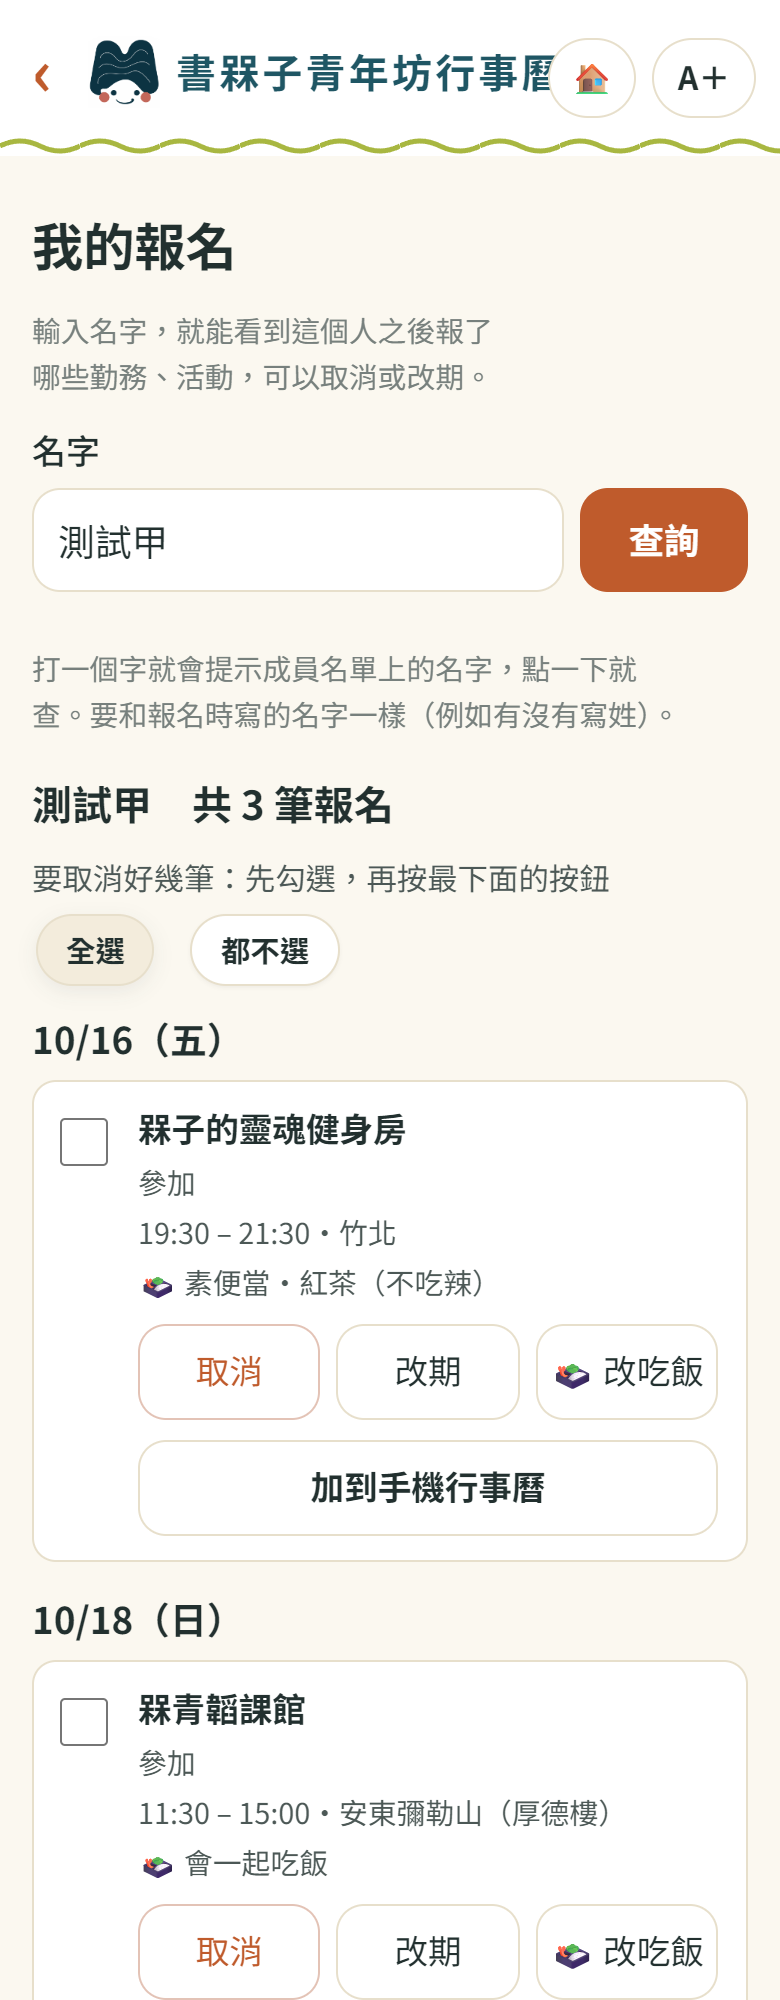
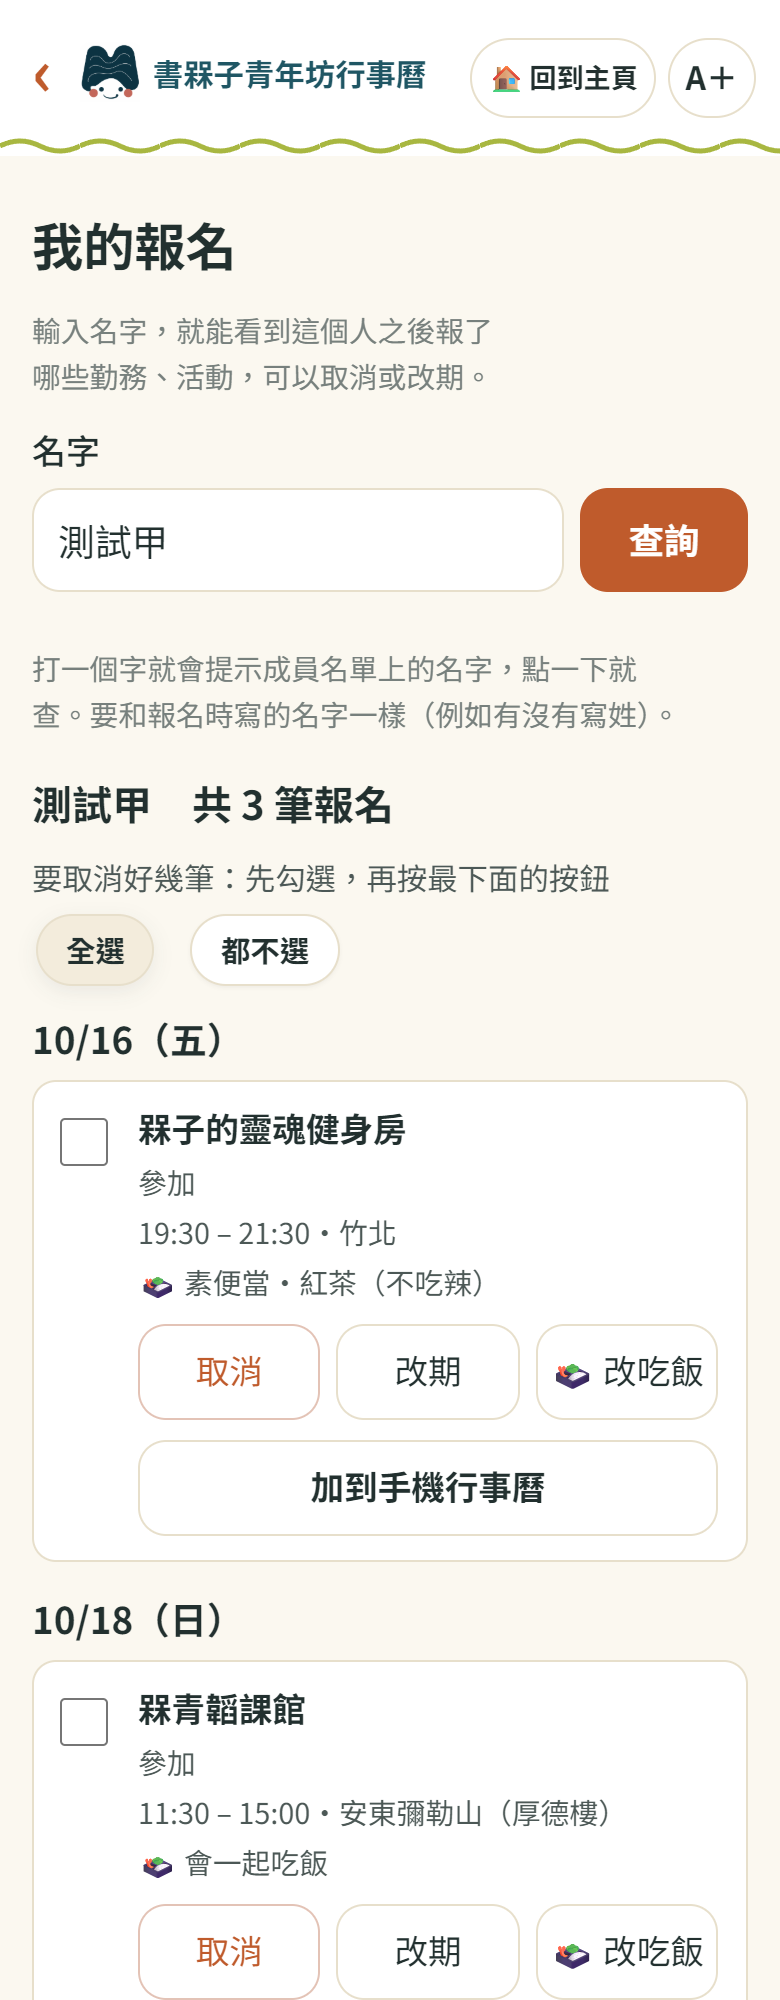
行事曆頁首：手機上標題字小一點，🏠 改「回到主頁」（很窄的手機才只留 🏠）

Changed region(s): [[0.0923, 0.0, 0.9231, 0.062]]

diff --git a/index.html b/index.html
@@ -19,7 +19,7 @@
   <link rel="preconnect" href="https://fonts.googleapis.com">
   <link rel="preconnect" href="https://fonts.gstatic.com" crossorigin>
   <link href="https://fonts.googleapis.com/css2?family=Noto+Sans+TC:wght@400;500;700;900&display=swap" rel="stylesheet">
-  <link rel="stylesheet" href="css/app.css?v=20261014c">
+  <link rel="stylesheet" href="css/app.css?v=20261014f">
   <script>try { var t = localStorage.getItem('shumeizi:text-size'); if (t === 'l' || t === 'xl') document.documentElement.classList.add('text-' + t); } catch (e) {}</script>
 </head>
 <body class="splash-on">
@@ -31,7 +31,7 @@
   </div>
   <header class="app-header">
     <a class="app-title" href="#/"><span class="header-back" aria-hidden="true">‹</span><img class="app-logo" src="icons/logo-head.png?v=20261014" alt="" width="36" height="36"><span data-site="name">書槑子青年坊行事曆</span></a>
-    <a class="home-btn" id="home-btn" aria-label="回首頁（書槑子官網）" hidden><span aria-hidden="true">🏠</span><span class="home-btn-text">回首頁</span></a>
+    <a class="home-btn" id="home-btn" hidden><span aria-hidden="true">🏠</span><span class="home-btn-text">回到主頁</span></a>
     <button type="button" class="text-size-btn" id="text-size" aria-label="字體大小">A＋</button>
   </header>
 
@@ -116,52 +116,52 @@
   <script src="https://cdn.jsdelivr.net/npm/fullcalendar@6.1.21/index.global.min.js"></script>
   <script src="https://cdn.jsdelivr.net/npm/@fullcalendar/core@6.1.21/locales/zh-tw.global.min.js"></script>
   <!-- 改了 js、css 後把 ?v= 的日期換新，手機才不會用到舊的檔案（GitHub Pages 會快取 10 分鐘） -->
-  <script src="js/site.js?v=20261014c"></script>
-  <script src="js/config.js?v=20261014c"></script>
-  <script src="js/api.js?v=20261014c"></script>
-  <script src="js/format.js?v=20261014c"></script>
-  <script src="js/lunar-util.js?v=20261014c"></script>
-  <script src="js/date-list.js?v=20261014c"></script>
-  <script src="js/share.js?v=20261014c"></script>
-  <script src="js/addcal.js?v=20261014c"></script>
-  <script src="js/duty-cache.js?v=20261014c"></script>
-  <script src="js/calendar.js?v=20261014c"></script>
-  <script src="js/confirm.js?v=20261014c"></script>
-  <script src="js/reschedule.js?v=20261014c"></script>
-  <script src="js/meal.js?v=20261014c"></script>
-  <script src="js/signup.js?v=20261014c"></script>
-  <script src="js/duty-images.js?v=20261014c"></script>
-  <script src="js/roster-grid.js?v=20261014c"></script>
-  <script src="js/grid-page.js?v=20261014c"></script>
-  <script src="js/duty.js?v=20261014c"></script>
-  <script src="js/mine.js?v=20261014c"></script>
-  <script src="js/venue.js?v=20261014c"></script>
-  <script src="js/push.js?v=20261014c"></script>
-  <script src="js/admin.js?v=20261014c"></script>
-  <script src="js/admin-pages.js?v=20261014c"></script>
-  <script src="js/draft-editor.js?v=20261014c"></script>
-  <script src="js/admin-duties.js?v=20261014c"></script>
-  <script src="js/admin-accounts.js?v=20261014c"></script>
-  <script src="js/import-parse.js?v=20261014c"></script>
-  <script src="js/admin-import.js?v=20261014c"></script>
-  <script src="js/admin-people.js?v=20261014c"></script>
-  <script src="js/stats-calc.js?v=20261014c"></script>
-  <script src="js/edu-stats.js?v=20261014c"></script>
-  <script src="js/admin-goals.js?v=20261014c"></script>
-  <script src="js/admin-venue.js?v=20261014c"></script>
-  <script src="js/admin-push.js?v=20261014c"></script>
-  <script src="js/admin-shop.js?v=20261014c"></script>
-  <script src="js/admin-stock.js?v=20261014c"></script>
-  <script src="js/shop.js?v=20261014c"></script>
-  <script src="js/tutorial.js?v=20261014c"></script>
-  <script src="js/help.js?v=20261014c"></script>
-  <script src="js/rollcall.js?v=20261014c"></script>
-  <script src="js/stats-export.js?v=20261014c"></script>
-  <script src="js/repair.js?v=20261014c"></script>
-  <script src="js/member-stats.js?v=20261014c"></script>
-  <script src="js/admin-stats.js?v=20261014c"></script>
-  <script src="js/history-parse.js?v=20261014c"></script>
-  <script src="js/admin-history.js?v=20261014c"></script>
-  <script src="js/app.js?v=20261014c"></script>
+  <script src="js/site.js?v=20261014f"></script>
+  <script src="js/config.js?v=20261014f"></script>
+  <script src="js/api.js?v=20261014f"></script>
+  <script src="js/format.js?v=20261014f"></script>
+  <script src="js/lunar-util.js?v=20261014f"></script>
+  <script src="js/date-list.js?v=20261014f"></script>
+  <script src="js/share.js?v=20261014f"></script>
+  <script src="js/addcal.js?v=20261014f"></script>
+  <script src="js/duty-cache.js?v=20261014f"></script>
+  <script src="js/calendar.js?v=20261014f"></script>
+  <script src="js/confirm.js?v=20261014f"></script>
+  <script src="js/reschedule.js?v=20261014f"></script>
+  <script src="js/meal.js?v=20261014f"></script>
+  <script src="js/signup.js?v=20261014f"></script>
+  <script src="js/duty-images.js?v=20261014f"></script>
+  <script src="js/roster-grid.js?v=20261014f"></script>
+  <script src="js/grid-page.js?v=20261014f"></script>
+  <script src="js/duty.js?v=20261014f"></script>
+  <script src="js/mine.js?v=20261014f"></script>
+  <script src="js/venue.js?v=20261014f"></script>
+  <script src="js/push.js?v=20261014f"></script>
+  <script src="js/admin.js?v=20261014f"></script>
+  <script src="js/admin-pages.js?v=20261014f"></script>
+  <script src="js/draft-editor.js?v=20261014f"></script>
+  <script src="js/admin-duties.js?v=20261014f"></script>
+  <script src="js/admin-accounts.js?v=20261014f"></script>
+  <script src="js/import-parse.js?v=20261014f"></script>
+  <script src="js/admin-import.js?v=20261014f"></script>
+  <script src="js/admin-people.js?v=20261014f"></script>
+  <script src="js/stats-calc.js?v=20261014f"></script>
+  <script src="js/edu-stats.js?v=20261014f"></script>
+  <script src="js/admin-goals.js?v=20261014f"></script>
+  <script src="js/admin-venue.js?v=20261014f"></script>
+  <script src="js/admin-push.js?v=20261014f"></script>
+  <script src="js/admin-shop.js?v=20261014f"></script>
+  <script src="js/admin-stock.js?v=20261014f"></script>
+  <script src="js/shop.js?v=20261014f"></script>
+  <script src="js/tutorial.js?v=20261014f"></script>
+  <script src="js/help.js?v=20261014f"></script>
+  <script src="js/rollcall.js?v=20261014f"></script>
+  <script src="js/stats-export.js?v=20261014f"></script>
+  <script src="js/repair.js?v=20261014f"></script>
+  <script src="js/member-stats.js?v=20261014f"></script>
+  <script src="js/admin-stats.js?v=20261014f"></script>
+  <script src="js/history-parse.js?v=20261014f"></script>
+  <script src="js/admin-history.js?v=20261014f"></script>
+  <script src="js/app.js?v=20261014f"></script>
 </body>
 </html>

diff --git a/css/app.css b/css/app.css
@@ -2158,11 +2158,13 @@ html.text-l { font-size: 112.5%; }
 html.text-xl { font-size: 125%; }
 .text-size-btn { position: absolute; right: 12px; top: 50%; transform: translateY(-50%); min-height: 40px; min-width: 52px; padding: 0 10px; border: 1px solid var(--line); border-radius: 999px; background: var(--card); color: var(--ink); font: inherit; font-weight: 700; font-size: 1rem; cursor: pointer; }
 .app-header { position: relative; }
-/* 頁首「回首頁」（官網），在 A＋ 左邊；窄手機只留 🏠 */
+/* 頁首「回到主頁」（官網），在 A＋ 左邊；窄手機只留 🏠 */
 .home-btn { position: absolute; right: 72px; top: 50%; transform: translateY(-50%); display: inline-flex; align-items: center; justify-content: center; gap: 4px; min-height: 40px; min-width: 44px; padding: 0 10px; border: 1px solid var(--line); border-radius: 999px; background: var(--card); color: var(--ink); font-weight: 700; font-size: 1rem; text-decoration: none; }
 .home-btn[hidden] { display: none; }
 body.splash-on .home-btn { visibility: hidden; }
-@media (max-width: 520px) { .home-btn-text { display: none; } .home-btn { padding: 0; } }
+/* 手機：標題小一點，讓「🏠 回到主頁」放得下（開場動畫的名稱也一起變小，才會剛好落在標題上） */
+@media (max-width: 520px) { .app-title, .splash-title { font-size: .95rem; letter-spacing: 0; } .app-title { gap: 6px; } .home-btn { right: 62px; gap: 2px; padding: 0 8px; font-size: .85rem; } .text-size-btn { min-width: 44px; padding: 0 8px; } }
+@media (max-width: 340px) { .home-btn-text { display: none; } } /* 很窄的手機只留 🏠 */
 body.splash-on .text-size-btn { visibility: hidden; }
 .push-auto { border-color: #c58a1b; }
 .push-auto-days { display: flex; flex-wrap: wrap; gap: 4px 14px; margin: 8px 0; }
@@ -2811,3 +2813,4 @@ span.shop-thumb { cursor: default; }
 /* 頁首標題左邊的書槑子標誌（2026/10/14） */
 .app-logo { width: 36px; height: 36px; flex: none; object-fit: contain; mix-blend-mode: multiply; }
 @media (max-width: 380px) { .app-logo { width: 30px; height: 30px; } .app-title { gap: 6px; } }
+@media (max-width: 520px) { .app-logo { width: 30px; height: 30px; } } /* 要放在 .app-logo 後面才蓋得過 */

diff --git a/js/site.js b/js/site.js
@@ -5,7 +5,7 @@
     name: '書槑子青年坊行事曆',        // 網站名稱（標題列、主畫面圖示名稱、通知）
     shortName: '書槑子青年坊',         // 主畫面圖示下面的名稱（2026/10/14 官網＋行事曆合成一個 App，改叫書槑子青年坊）
     org: '書槑子青年坊',              // 團體名稱（名單開頭、缺人通知）
-    homepage: './home/', // 頁首「🏠 回首頁」：App 裡的官網（官網專案 build 產生到 home/，規格 0.10；空白＝不顯示）
+    homepage: './home/', // 頁首「🏠 回到主頁」：App 裡的官網（官網專案 build 產生到 home/，規格 0.10；空白＝不顯示）
     venue: '場地',                    // 可以借的場地名稱（書槑子目前不借場地，features.venue＝false）
     temple: '佛堂',                   // 「佛堂」這個用詞（書槑子不用，features.temple＝false 時整個藏起來）
     // 類別顯示的名字（內部代號不變：勤務＝志工排班，有項目＋名額、會算缺人；道務、教育、植素＝一般活動，自由參加不算缺人）

diff --git a/js/app.js b/js/app.js
@@ -227,7 +227,7 @@
     document.querySelectorAll('[data-site]').forEach((el) => { if (S[el.dataset.site]) el.textContent = S[el.dataset.site]; });
     // data-site-tpl：整段文字的範本，{venue} 這類換成設定（只換文字，不拆開元素，排版不變）
     document.querySelectorAll('[data-site-tpl]').forEach((el) => { el.textContent = el.dataset.siteTpl.replace(/\{(\w+)\}/g, (m, k) => S[k] || ''); });
-    // 頁首「回首頁」：首頁就是官網（2026/10/14）
+    // 頁首「回到主頁」：首頁就是官網（2026/10/14）
     const homeBtn = document.getElementById('home-btn');
     if (homeBtn && S.homepage) { homeBtn.href = S.homepage; homeBtn.hidden = false; }
     document.querySelectorAll('[data-site-cat]').forEach((el) => { el.textContent = Fmt.catLabel(el.dataset.siteCat); });

diff --git a/docs/spec.md b/docs/spec.md
@@ -13,7 +13,7 @@
 ### 0.1 團體與目標
 - **書槑子青年坊**：青年自發的平台（讀書會 × 活動 × 課程 × 志工），標語「用我們的筆 寫出我們的故事」。
 - 現有網站（Webnode）沒有報名功能，聯絡靠官方 LINE。本系統讓大家看行事曆、報名、幫朋友報名；上線後在 Webnode 放「看行事曆、報名」按鈕連過來（等官網管理者處理）。
-- 頁首標題左邊有書槑子標誌；A＋ 左邊有「🏠 回首頁」按鈕，首頁＝書槑子官網（同一頁打開；網址在 js/site.js 的 `SITE.homepage`，空白就不顯示；窄手機只顯示 🏠）。行事曆最下面原本的「逛逛書槑子官網」按鈕拿掉了（2026/10/14）。
+- 頁首標題左邊有書槑子標誌；A＋ 左邊有「🏠 回到主頁」按鈕，首頁＝書槑子官網（同一頁打開；網址在 js/site.js 的 `SITE.homepage`，空白就不顯示；手機上標題字小一點讓按鈕放得下，很窄（340px 以下）才只顯示 🏠）。行事曆最下面原本的「逛逛書槑子官網」按鈕拿掉了（2026/10/14）。
 - 對象是青年：畫面明亮、活潑、有青春感，用詞口語輕鬆（可多一點表情符號，例：「我要去！」「幫朋友報名」）。
 - 網址：`https://bailixiao.github.io/shumeizi-calendar/`（公開儲存庫 `shumeizi-calendar`）；Cloudflare Worker 名稱 `shumeizi-api`。
 
